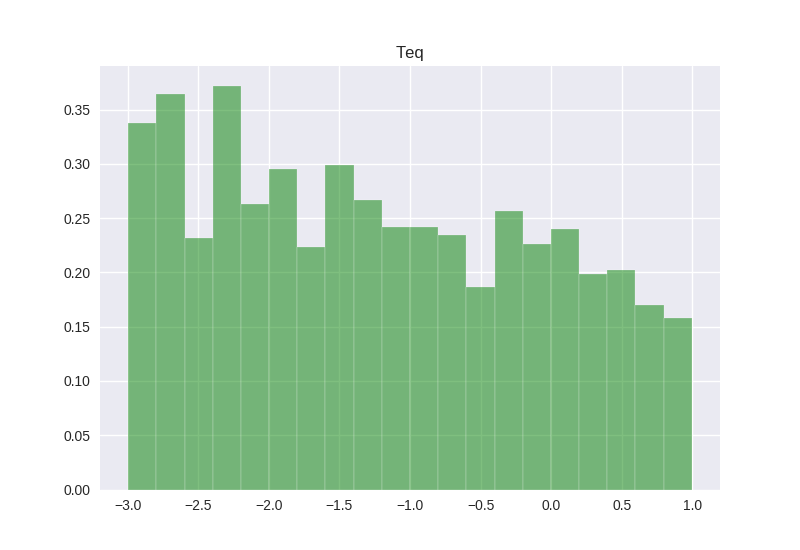
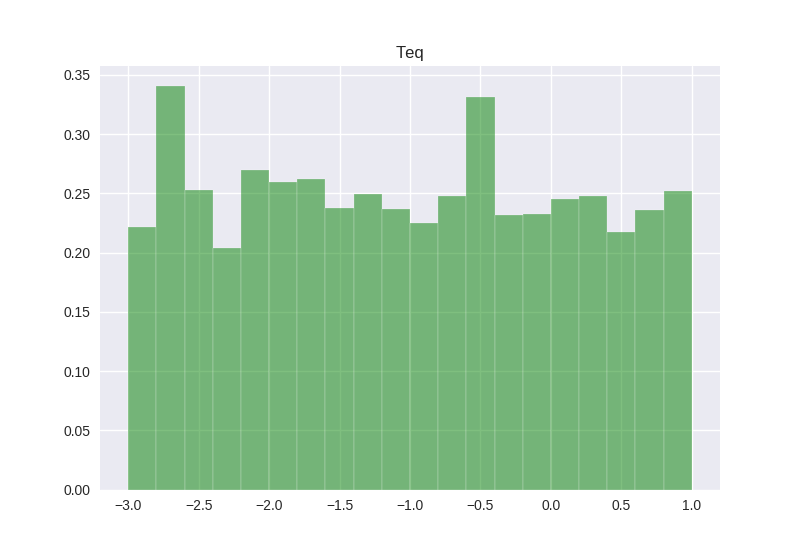
100000 iterations

diff --git a/fortran/coupled_model.py b/fortran/coupled_model.py
@@ -42,10 +42,6 @@ class CoupledModel:
 
 	def __init__(self, values):
 		
-		self.cs = 3.1
-		self.ovd = 3.5
-		self.asc = 1.1
-		self.T_0 = -0.06
 		self.num = 0
 
 		dfSealevel = pd.read_csv('GMSL_ChurchWhite2011_yr_2015.csv')
@@ -54,6 +50,10 @@ class CoupledModel:
 		self.year = (dfSealevel.loc[(dfSealevel["year"] >= 1880) & (dfSealevel["year"]<=2009), "year"]).tolist()
 		self.sealevel_sigma = (dfSealevel.loc[(dfSealevel["year"]>=1880) & (dfSealevel["year"]<=2009), "uncertainty"]).tolist()
 		self.dfTemperature = dfTemperature.loc[(dfTemperature["Time"] <= 2008) & (dfTemperature["Time"] >= 1880), "Historical NOAA temp & CNRM RCP 8.5 with respect to 20th century"] - dfTemperature.loc[(dfTemperature["Time"] <= 1990) & (dfTemperature["Time"] >= 1961), "Historical NOAA temp & CNRM RCP 8.5 with respect to 20th century"].mean()
+		temp = pd.read_csv("temp.txt", header=None, sep=',')
+		temp_unc = temp.drop(temp.columns[[1,3,4,5]], axis = 1)
+		temp_unc.columns = ["year", "uncertainty"]
+		self.temp_unc = (temp_unc.loc[(temp_unc["year"]>=1880) & (temp_unc["year"]<=2009), "uncertainty"]).tolist()
 		#forcing = pd.read_csv( 'data/forcing_hindcast.csv')
 		#self.mod_time = np.array(forcing['year'])
 		#self.forcingtotal = np.array(forcing_total.forcing_total(forcing=forcing, alpha_doeclim=self.asc, l_project=False, begyear=self.mod_time[0], endyear=np.max(self.mod_time)))
@@ -134,15 +134,16 @@ class CoupledModel:
 		#rho, sigma_ar = 0.5, 3
 		#rho_t, sigma_t = 0.55, 1
 		resid = np.array([self.sealevel[i] - model[i] for i in range(len(model))])
-
-		sigma_obs = np.diag([i**2 for i in self.sealevel_sigma])
-		sigma_ar1 = self.build_ar1(theta[3], theta[4], N) 
-
 		t_residual = self.dfTemperature - temperatures
 
+		sigma_obs = np.diag([i**2 for i in self.sealevel_sigma])
+		sigma_obs_T = np.diag([i**2 for i in self.temp_unc])
+		
+		sigma_ar1 = self.build_ar1(theta[3], theta[4], N) 
 		sigma_ar1_T = self.build_ar1(theta[10], theta[9], N)
-		sigma_ar1_T = np.multiply((np.transpose(sigma_ar1_T) + sigma_ar1_T), 1/2)
+
 		log_prior = self.prior(theta)
+
 		if np.isinf(log_prior): return -np.inf
 		
 		a = np.zeros((self.time, self.time), float)
@@ -153,8 +154,8 @@ class CoupledModel:
 		temp1 = np.concatenate((a, cov), axis = 1)
 		#cov = sigma_obs
 		#log_likelihood = stats.multivariate_normal.logpdf(resid, mean = None, cov=cov)
-		
-		cov_T = np.multiply((np.transpose(sigma_ar1_T) + sigma_ar1_T), 1/2)
+		cov_T = np.add(sigma_obs_T,sigma_ar1_T)
+		cov_T = np.multiply((np.transpose(cov_T) + cov_T), 1/2)
 		temp2 = np.concatenate((cov_T, a), axis = 1)
 		bigcov = np.concatenate((temp1, temp2), axis = 0)
 		#log_likelihood_T = stats.multivariate_normal.logpdf(t_residual, mean=None, cov=cov_T)
